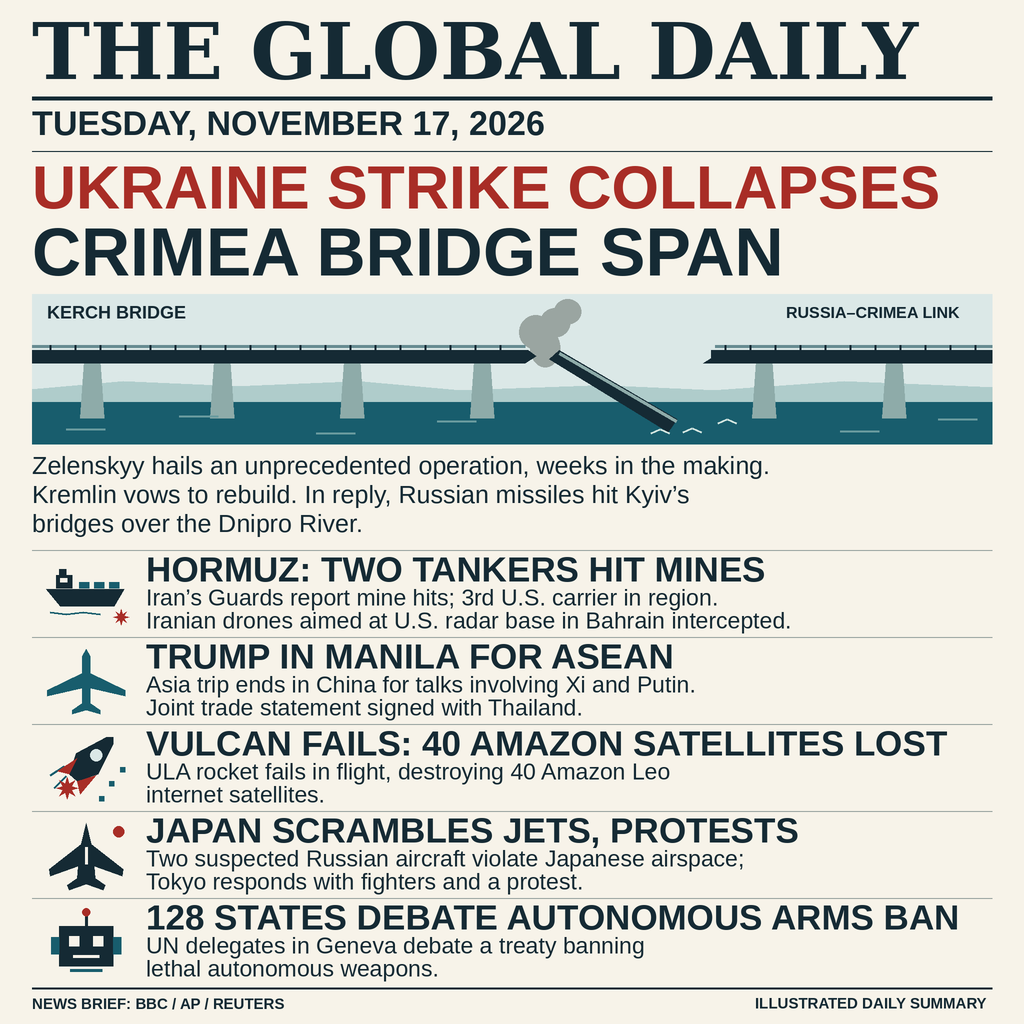
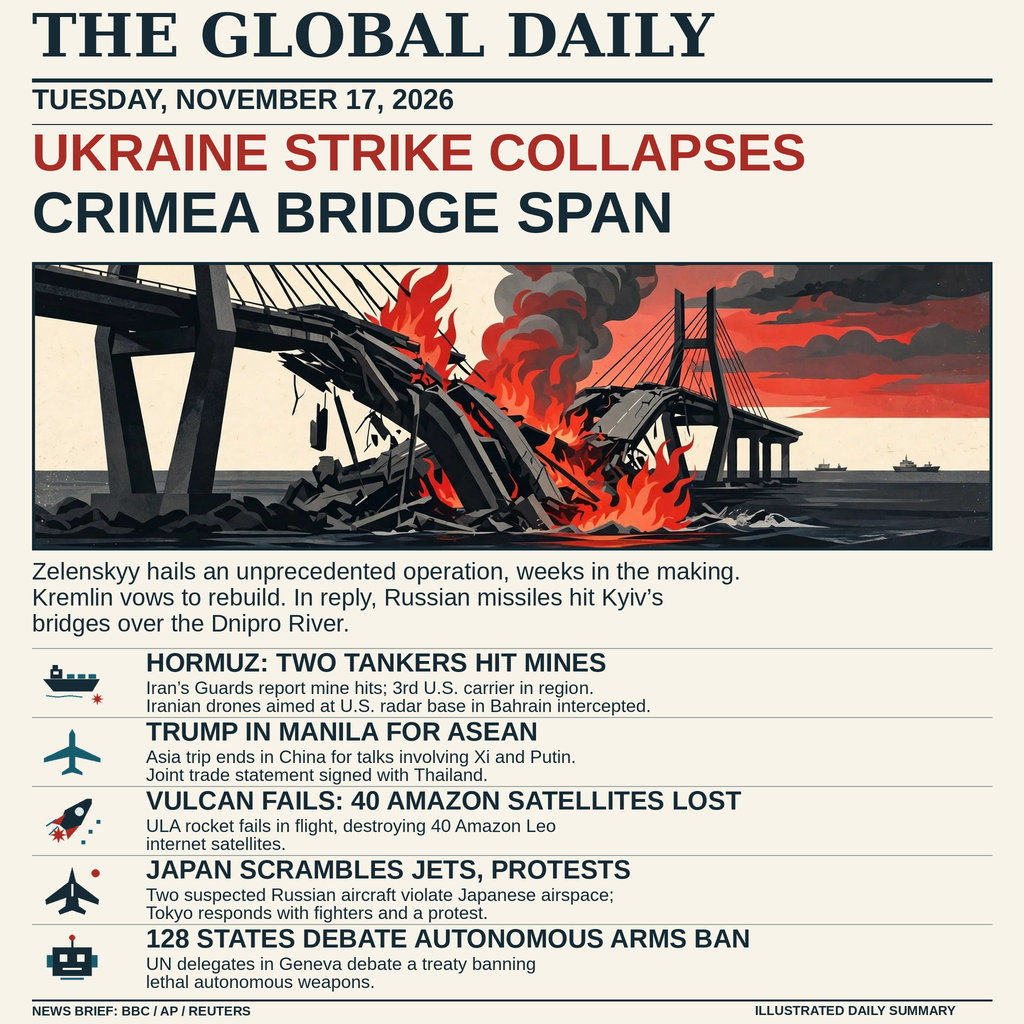
Swap hand-drawn bridge diagram for AI editorial illustration hero
Main visual is now the generated Crimea Bridge editorial illustration,
processed by prep_hero.py into assets/hero.jpg (1920x576 JPEG) and
embedded by generate_image.py in the front-page hero slot. All page
text is unchanged; brief icons remain Pillow-drawn. entry.png is now
737,165 bytes, still 1024x1024 and deterministic.

diff --git a/generate_image.py b/generate_image.py
@@ -1,5 +1,5 @@
 #!/usr/bin/env python3
-"""Draw the competition image with Pillow; no external images or network access."""
+"""Compose the competition image with Pillow and the prepared hero illustration."""
 
 from pathlib import Path
 import math
@@ -130,86 +130,78 @@ def robot(x, y):
     line([(x+29,y+65),(x+61,y+65)], TEAL, 3)
 
 
-def bridge():
-    """An editorial diagram: a road span broken and tipped into the sea."""
-    box((32, 294, 992, 444), PALE)
-    polygon([(32,389),(123,381),(238,386),(359,381),(459,390),
-             (602,385),(714,390),(844,381),(992,387),(992,411),(32,411)],
-            "#AFCCCB")
-    box((32, 402, 992, 444), TEAL)
-    for px in (92, 222, 352, 482, 764, 894):
-        polygon([(px-8,361),(px+8,361),(px+12,418),(px-12,418)], "#8EABA9")
-    # Smoke rises at the broken joint; muted flat shapes preserve contrast.
-    for bounds in ((530,329,560,367), (519,315,552,349),
-                   (540,308,570,337), (554,299,581,324)):
-        ellipse(bounds, "#9AA5A1")
-    polygon([(32,350),(528,350),(536,356),(525,363),(32,363)], INK)
-    polygon([(711,350),(992,350),(992,363),(703,363),(711,358)], INK)
-    line([(32,346),(525,346)], "#668B91", 3)
-    line([(715,346),(992,346)], "#668B91", 3)
-    for px in list(range(50, 525, 25)) + list(range(725, 990, 25)):
-        line([(px,345),(px,351)], INK, 2)
-    # One deck segment falls diagonally into the water, separated at both ends.
-    polygon([(549,359),(559,350),(677,419),(668,432)], INK)
-    line([(559,353),(676,421)], "#8EABA9", 3)
-    for px, py in ((660,433),(692,432),(727,423)):
-        line([(px-9,py),(px,py-4),(px+9,py)], "#D3E5E0", 2)
-    for px, py in ((66,429),(179,416),(316,433),(437,421),(840,431),(938,419)):
-        line([(px,py),(px+39,py)], "#6A9B9F", 2)
-    text("KERCH BRIDGE", 47, 306, 18, "bold", bottom=331)
-    text("RUSSIA–CRIMEA LINK", 786, 307, 16, "bold", right=978, bottom=331)
+def story(y, headline, summary, icon):
+    global draw
 
-
-def story(y, headline, summary, icon, headline_size=35):
     line([(32, y), (992, y)], RULE, 1)
-    icon(41, y + 7)
-    text(headline, 146, y + 7, headline_size, "bold", bottom=y + 38)
+    layer = Image.new("RGBA", (100 * SCALE, 85 * SCALE), (0, 0, 0, 0))
+    page_draw = draw
+    try:
+        draw = ImageDraw.Draw(layer)
+        icon(5, 5)
+    finally:
+        draw = page_draw
+    layer = layer.resize((72 * SCALE, 60 * SCALE), Image.Resampling.LANCZOS)
+    image.paste(layer, (36 * SCALE, (y + 5) * SCALE), layer)
+    text(headline, 146, y + 5, 26, "bold", bottom=y + 33)
     for i, sentence in enumerate(summary):
-        text(sentence, 146, y + 39 + i * 23, 23, bottom=y + 84)
+        text(sentence, 146, y + 33 + i * 18, 18, bottom=y + 69)
 
 
 def main():
-    text("THE GLOBAL DAILY", 32, 21, 78, "masthead", bottom=91)
-    line([(32, 98), (992, 98)], INK, 4)
-    text("TUESDAY, NOVEMBER 17, 2026", 32, 111, 34, "bold", bottom=145)
-    line([(32, 151), (992, 151)], INK, 1)
-    text("UKRAINE STRIKE COLLAPSES", 32, 166, 61, "bold", RED, bottom=217)
-    text("CRIMEA BRIDGE SPAN", 32, 228, 68, "bold", INK, bottom=284)
-    bridge()
-    text("Zelenskyy hails an unprecedented operation, weeks in the making.",
-         32, 456, 25, bottom=480)
-    text("Kremlin vows to rebuild. In reply, Russian missiles hit Kyiv’s",
-         32, 485, 25, bottom=509)
-    text("bridges over the Dnipro River.", 32, 514, 25, bottom=538)
+    text("THE GLOBAL DAILY", 32, 12, 60, "masthead", bottom=80)
+    line([(32, 80), (992, 80)], INK, 4)
+    text("TUESDAY, NOVEMBER 17, 2026", 32, 89, 28, "bold", bottom=124)
+    line([(32, 124), (992, 124)], INK, 1)
+    text("UKRAINE STRIKE COLLAPSES", 32, 134, 52, "bold", RED, bottom=192)
+    text("CRIMEA BRIDGE SPAN", 32, 192, 58, "bold", INK, bottom=262)
 
-    story(550, "HORMUZ: TWO TANKERS HIT MINES", [
+    with Image.open(ROOT / "assets" / "hero.jpg") as source:
+        hero = source.convert("RGB")
+    hero_size = (960 * SCALE, 288 * SCALE)
+    if hero.size != hero_size:
+        hero = hero.resize(hero_size, Image.Resampling.LANCZOS)
+    image.paste(hero, (32 * SCALE, 262 * SCALE))
+    box((32, 262, 992, 550), None, INK, 3)
+
+    text("Zelenskyy hails an unprecedented operation, weeks in the making.",
+         32, 562, 24, bottom=588)
+    text("Kremlin vows to rebuild. In reply, Russian missiles hit Kyiv’s",
+         32, 588, 24, bottom=614)
+    text("bridges over the Dnipro River.", 32, 614, 24, bottom=648)
+
+    story(648, "HORMUZ: TWO TANKERS HIT MINES", [
         "Iran’s Guards report mine hits; 3rd U.S. carrier in region.",
         "Iranian drones aimed at U.S. radar base in Bahrain intercepted.",
     ], tanker)
-    story(637, "TRUMP IN MANILA FOR ASEAN", [
+    story(717, "TRUMP IN MANILA FOR ASEAN", [
         "Asia trip ends in China for talks involving Xi and Putin.",
         "Joint trade statement signed with Thailand.",
     ], airplane)
-    story(724, "VULCAN FAILS: 40 AMAZON SATELLITES LOST", [
+    story(786, "VULCAN FAILS: 40 AMAZON SATELLITES LOST", [
         "ULA rocket fails in flight, destroying 40 Amazon Leo",
         "internet satellites.",
     ], rocket)
-    story(811, "JAPAN SCRAMBLES JETS, PROTESTS", [
+    story(855, "JAPAN SCRAMBLES JETS, PROTESTS", [
         "Two suspected Russian aircraft violate Japanese airspace;",
         "Tokyo responds with fighters and a protest.",
     ], fighter)
-    story(898, "128 STATES DEBATE AUTONOMOUS ARMS BAN", [
+    story(924, "128 STATES DEBATE AUTONOMOUS ARMS BAN", [
         "UN delegates in Geneva debate a treaty banning",
         "lethal autonomous weapons.",
     ], robot)
 
-    line([(32, 988), (992, 988)], INK, 2)
-    text("NEWS BRIEF: BBC / AP / REUTERS", 32, 998, 15, "bold", bottom=1016)
-    text("ILLUSTRATED DAILY SUMMARY", 755, 998, 15, "bold", bottom=1016)
+    line([(32, 1000), (992, 1000)], INK, 2)
+    text("NEWS BRIEF: BBC / AP / REUTERS", 32, 1006, 13, "bold", bottom=1024)
+    text("ILLUSTRATED DAILY SUMMARY", 755, 1006, 13, "bold", bottom=1024)
     final = image.resize((WIDTH, HEIGHT), Image.Resampling.LANCZOS)
     OUTPUT.parent.mkdir(parents=True, exist_ok=True)
     final.save(OUTPUT, format="PNG", optimize=True)
     size = OUTPUT.stat().st_size
+    if size > 1048576:
+        final = final.quantize(colors=256, method=Image.Quantize.MEDIANCUT)
+        final.save(OUTPUT, format="PNG", optimize=True)
+        size = OUTPUT.stat().st_size
     assert size <= 1048576, f"PNG exceeds 1 MiB: {size} bytes"
     with Image.open(OUTPUT) as check:
         assert check.format == "PNG" and check.size == (1024, 1024)

diff --git a/prep_hero.py b/prep_hero.py
@@ -1,0 +1,28 @@
+#!/usr/bin/env python3
+"""Prepare the supplied editorial illustration for the newspaper hero slot."""
+
+from pathlib import Path
+
+from PIL import Image
+
+
+ROOT = Path(__file__).resolve().parent
+SOURCE = Path(
+    "/home/hatch/workspace/makefun/news-image-art/"
+    "media-generation-crimea-bridge-editorial-b-0-"
+    "3d70e66f-553a-438a-817f-745d55f7a119.png"
+)
+OUTPUT = ROOT / "assets" / "hero.jpg"
+
+
+def main():
+    with Image.open(SOURCE) as source:
+        hero = source.crop((86, 560, 1836, 1085)).convert("RGB")
+    hero = hero.resize((1920, 576), Image.Resampling.LANCZOS)
+    OUTPUT.parent.mkdir(parents=True, exist_ok=True)
+    hero.save(OUTPUT, format="JPEG", quality=88)
+    print(f"Prepared {OUTPUT.name}: 1920x576, {OUTPUT.stat().st_size} bytes")
+
+
+if __name__ == "__main__":
+    main()

diff --git a/README.md b/README.md
@@ -2,15 +2,18 @@
 
 A make.fun competition entry summarizing the world news of Tuesday,
 November 17, 2026 in one illustrated newspaper front page. The finished
-image is `assets/entry.png`: a 1024 × 1024 RGB PNG, 413,187 bytes, below
+image is `assets/entry.png`: a 1024 × 1024 RGB PNG, 737,165 bytes, below
 the 1 MiB limit.
 
-The bridge strike leads the page with a large headline and an original
-diagram of the broken Kerch Bridge span. Five illustrated news briefs
+The bridge strike leads the page with a large headline and an AI-generated
+editorial illustration of a Crimea Bridge span collapsed and burning.
+The full supplied illustration is cropped and resized by `prep_hero.py`
+into the stored asset `assets/hero.jpg`. Five illustrated news briefs
 cover Hormuz, Trump's Asia trip, the Vulcan failure, Japan's airspace,
 and the Geneva debate on autonomous weapons. Flat colors, strong contrast,
 and large headlines help the main stories remain readable at 300 pixels wide.
-The bridge and icons are editorial illustrations, not photographs.
+The five brief icons are drawn with Pillow. The bridge and icons are
+editorial illustrations, not photographs.
 
 ## News sources
 
@@ -38,7 +41,7 @@ for November 17, 2026:
 
 No network requests were made. The supplied brief did not include article
 URLs; none have been invented, and the reporting was not independently
-retrieved. No external images are used.
+retrieved.
 
 ## Run the entry
 
@@ -60,7 +63,7 @@ The directory is created if necessary. After copying, the program verifies
 that the destination byte count matches the source and prints one line:
 
 ```text
-Copied entry.png: 413187 bytes verified.
+Copied entry.png: 737165 bytes verified.
 ```
 
 The source asset can be located regardless of the current working directory.
@@ -75,19 +78,28 @@ Liberation Sans fonts under `/usr/share/fonts/truetype/`:
 python3 generate_image.py
 ```
 
-It draws at twice the final resolution, downsamples to 1024 × 1024,
+The stored hero asset is a 1920 × 576 JPEG, 229,445 bytes. The one-off
+`prep_hero.py` script reads the full supplied illustration from its original
+path outside this repository, crops `(86, 560, 1836, 1085)`, resizes with
+LANCZOS, and saves `assets/hero.jpg` at JPEG quality 88. The full source PNG
+is not bundled. Regenerating the front page uses the stored JPEG and does
+not require the full illustration.
+
+`generate_image.py` draws at twice the final resolution, downsamples to 1024 × 1024,
 checks every text box for overflow, and verifies the PNG dimensions and
-file-size limit. Fonts, the Pillow version, and its PNG encoder can affect
+file-size limit. If the optimized PNG exceeds 1 MiB, it uses a 256-color
+MEDIANCUT quantization fallback. The current output is RGB and does not
+require quantization. Fonts, the Pillow version, and its PNG encoder can affect
 the bytes produced by regeneration; the bundled asset is the competition
 output.
 
 ## Validation
 
-The initial copy implementation passed a two-directory output test. The
-byte-count verification and confirmation were then added and the test
-was repeated. Finally, the five secondary headlines were enlarged from
-31 to 35 pixels, their spacing adjusted, and the image regenerated and
-inspected at full size and at 300 pixels wide.
+The front page was regenerated with the prepared AI illustration and the
+revised layout, then visually inspected at full size. All 24 page text
+strings were checked character-for-character against the previous generator;
+the five icon functions are unchanged. The previous bridge diagram and its
+two labels were removed.
 
 The final two runs used separate temporary directories with previously
 absent nested output folders, ran from outside the repository, and produced
@@ -96,9 +108,9 @@ one-line confirmation.
 
 - Format: PNG, RGB
 - Dimensions: 1024 × 1024 pixels
-- Size: 413,187 bytes (limit: 1,048,576)
+- Size: 737,165 bytes (limit: 1,048,576)
 - SHA-256 of the source and both final outputs:
[2 lines of base64/hex data omitted]
 
 Local checks ran with Python 3.12.3 and Pillow 10.2.0; Python 3.13 was
 not installed in the build environment. `main.py` uses standard-library
@@ -107,6 +119,8 @@ APIs supported by Python 3.13.
 ## Files and license
 
 - `assets/entry.png` — the finished competition image
+- `assets/hero.jpg` — the cropped and resized AI-generated editorial illustration
+- `prep_hero.py` — one-off Pillow preparation script for the supplied illustration
 - `generate_image.py` — local Pillow drawing source
 - `main.py` — standard-library competition entry point
 - `.makefun/owner.json` — competition wallet metadata
